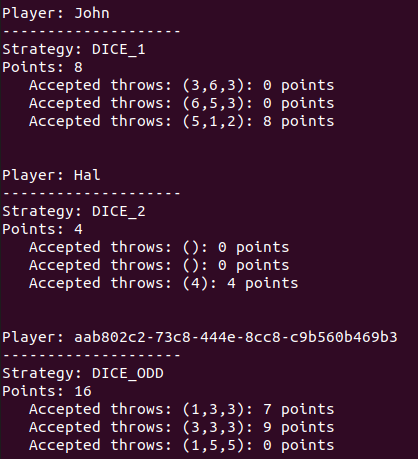
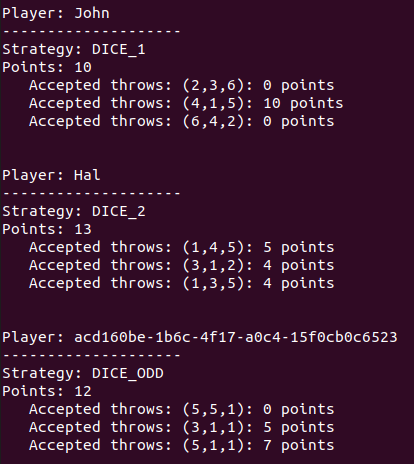
Fix logic for Dice2 strategy && some refactor to player logic

diff --git a/test/DiceRulesTest.php b/test/DiceRulesTest.php
@@ -13,6 +13,7 @@ use App\Game\GameResult;
 
 final class DiceRulesTest extends TestCase
 {
+    //Dice1 rules only allow 3 times dice throw
     public function testDice1Rules3TimesMax(): void
     {
         $roundResult = $this->buildPlayResultFor(new Dice1Rules());
@@ -21,31 +22,58 @@ final class DiceRulesTest extends TestCase
         $this->assertEquals(3, $roundResult->getThrowsCount());
     }
 
+    //This test checks a series of [3,3,3]
     public function testDice1RulesGetPoints(): void
     {
         $roundResult = $this->buildPlayResultFor(new Dice1Rules([3]));
+        $this->assertEquals(3, $roundResult->getThrowsCount());
         $this->assertEquals(9, $roundResult->getPoints());
     }
 
+    //This test checks a series of [6,6,6]
     public function testDice1RulesGetZeroPoints(): void
     {
         $roundResult = $this->buildPlayResultFor(new Dice1Rules([6]));
+        $this->assertEquals(3, $roundResult->getThrowsCount());
         $this->assertEquals(0, $roundResult->getPoints());
     }
 
-    public function testDice2RulesStopWhenTotalAbove5(): void
+    //when total round is above 5 the last throw is accepted and computed
+    //for logic related to calculate round point. Currently if
+    //total round > 10 ten points = 0. This test checks a series of [6]
+    public function testDice2RulesStopWhenTotalRoundAbove5(): void
     {
         $roundResult = $this->buildPlayResultFor(new Dice2Rules([6]));
         $this->assertInstanceOf(GameResult::class, $roundResult);
-        $this->assertEquals(0, $roundResult->getThrowsCount());
-        $this->assertEquals(0, $roundResult->getPoints());
+        $this->assertEquals(1, $roundResult->getThrowsCount());
+        $this->assertEquals(6, $roundResult->getPoints());
     }
 
-    public function testDice2RulesStopWhenTotalUnder6(): void
+    //the rules will execute this throws (5,5,5) that should result in zero points
+    //due the value is above 10
+    //This test checks a series of [5,5]
+    public function testDice2RulesWhenFixedValue(): void
     {
         $roundResult = $this->buildPlayResultFor(new Dice2Rules([5]));
-        $this->assertEquals(1, $roundResult->getThrowsCount());
-        $this->assertEquals(5, $roundResult->getPoints());
+        $this->assertEquals(2, $roundResult->getThrowsCount());
+        $this->assertEquals(10, $roundResult->getPoints());
+    }
+
+    //when the only value available is 1, there must be 6 throws and 6 points
+    //This test checks a series of [1,1,1,1,1,1]
+    public function testDice2RulesCheckPointsValue(): void
+    {
+        $roundResult = $this->buildPlayResultFor(new Dice2Rules([1]));
+        $this->assertEquals(6, $roundResult->getThrowsCount());
+        $this->assertEquals(6, $roundResult->getPoints());
+    }
+
+    //This test checks a series of [4,4]
+    public function testDice2RulesGetZeroPoints(): void
+    {
+        $roundResult = $this->buildPlayResultFor(new Dice2Rules([4]));
+        $this->assertEquals(2, $roundResult->getThrowsCount());
+        $this->assertEquals(8, $roundResult->getPoints());
     }
 
     public function testUnExistentRuleException()

diff --git a/src/Dice/Rules/AbstractBaseRules.php b/src/Dice/Rules/AbstractBaseRules.php
@@ -11,6 +11,7 @@ abstract class AbstractBaseRules implements DiceRulesInterface, DiceInterface
     protected int $throwsCounter = 0;
     protected ?int $roundPoints = 0;
     protected ?int $points = 0;
+    private array $throws = [];
 
     public function __construct(array $allowedValues = null)
     {
@@ -26,18 +27,15 @@ abstract class AbstractBaseRules implements DiceRulesInterface, DiceInterface
     {
         $this->throwsCounter++;
         $value = $value ?? $this->doRoll();
+        $this->addThrow($value);
         $this->roundPoints = $this->roundPoints + $value;
 
         return $value;
     }
 
-    protected function doRoll(): int
-    {
-        return $this->allowedValues[array_rand($this->allowedValues)];
-    }
-
     public function reset(): void
     {
+        $this->throws = [];
         $this->roundPoints = 0;
         $this->throwsCounter = 0;
     }
@@ -48,6 +46,26 @@ abstract class AbstractBaseRules implements DiceRulesInterface, DiceInterface
         $this->points = $points;
 
         return $this->points;
+    }
+
+    public function getThrows(): array
+    {
+        return $this->throws;
+    }
+
+    protected function getCurrentPoints(): int
+    {
+        return array_sum($this->getThrows());
+    }
+
+    protected function doRoll(): int
+    {
+        return $this->allowedValues[array_rand($this->allowedValues)];
+    }
+
+    protected function addThrow(int $points): void
+    {
+        $this->throws[] = $points;
     }
 
     private function calculateRoundPoints(): int

diff --git a/src/Player/PlayResult.php b/src/Player/PlayResult.php
@@ -6,27 +6,16 @@ namespace App\Player;
 
 final class PlayResult
 {
-    public int $points;
-    public int $totalPoints = 0;
-    public array $throws = [];
-
-    public function __construct(public readonly string $playerName, public readonly string $diceName)
-    {
-    }
-
-    public function addThrow(int $points): void
-    {
-        $this->throws[] = $points;
-        $this->totalPoints = $this->totalPoints + $points;
+    public function __construct(
+        public readonly string $playerName,
+        public readonly string $diceName,
+        public readonly array $throws,
+        public readonly int $points
+    ){
     }
 
     public function getRoundPoints(): int
     {
         return $this->points;
-    }
-
-    public function setPoints(int $points)
-    {
-        $this->points = $points;
     }
 }

diff --git a/src/Dice/Rules/Strategies/Dice2Rules.php b/src/Dice/Rules/Strategies/Dice2Rules.php
@@ -5,24 +5,21 @@ declare(strict_types=1);
 namespace App\Dice\Rules\Strategies;
 
 use App\Dice\Rules\AbstractBaseRules;
-use App\Player\PlayResult;
 
 final class Dice2Rules extends AbstractBaseRules
 {
     const STRATEGY_NAME = 'DICE_2';
 
-    private ?int $value = 0;
+    private int $value = 0;
 
-    public function canRoll(PlayResult $result): bool
+    public function canRoll(): bool
     {
-        $value = $this->doRoll();
+        $this->value = parent::roll();
+        $temporalPoints = $this->getCurrentPoints();
 
-        if (($result->totalPoints + $value) > 5) {
+        if ($temporalPoints > 5) {
             return false;
         }
-
-        $this->value = $value;
-        parent::roll($value);
 
         return true;
     }

diff --git a/src/Player/Player.php b/src/Player/Player.php
@@ -42,17 +42,11 @@ final class Player
     public function playRound(): PlayResult
     {
         $this->dice->reset();
-        $playResult = new PlayResult($this->name, $this->dice->getName());
 
-        while ($this->dice->canRoll($playResult)) {
-            $points = $this->dice->roll();
-            $playResult->addThrow($points);
+        while ($this->dice->canRoll()) {
+            $this->dice->roll();
         }
 
-        $playResult->setPoints(
-            $this->dice->getRoundPoints()
-        );;
-
-        return $playResult;
+        return new PlayResult($this->name, $this->dice->getName(), $this->dice->getThrows(), $this->dice->getRoundPoints());
     }
 }

diff --git a/src/Game/DiceGame.php b/src/Game/DiceGame.php
@@ -4,6 +4,8 @@ declare(strict_types=1);
 
 namespace App\Game;
 
+use App\Player\Player;
+
 final class DiceGame
 {
     private array $results = [];
@@ -33,7 +35,7 @@ final class DiceGame
         return $this->results;
     }
 
-    private function playRounds(mixed $rounds, mixed $player, GameResult $gameResult): void
+    private function playRounds(int $rounds, Player $player, GameResult $gameResult): void
     {
         for ($i = 0; $i < $rounds; $i++) {
             $roundResult = $player->playRound();

diff --git a/src/Dice/Rules/Strategies/OddDiceRules.php b/src/Dice/Rules/Strategies/OddDiceRules.php
@@ -5,7 +5,6 @@ declare(strict_types=1);
 namespace App\Dice\Rules\Strategies;
 
 use App\Dice\Rules\AbstractBaseRules;
-use App\Player\PlayResult;
 
 final class OddDiceRules extends AbstractBaseRules
 {
@@ -17,7 +16,7 @@ final class OddDiceRules extends AbstractBaseRules
         parent::__construct([1,3,5]);
     }
 
-    public function canRoll(PlayResult $result): bool
+    public function canRoll(): bool
     {
         return ($this->throwsCounter < self::CONSTRAINT_MAX_THROWS);
     }

diff --git a/src/Dice/Rules/Strategies/Dice1Rules.php b/src/Dice/Rules/Strategies/Dice1Rules.php
@@ -5,14 +5,13 @@ declare(strict_types=1);
 namespace App\Dice\Rules\Strategies;
 
 use App\Dice\Rules\AbstractBaseRules;
-use App\Player\PlayResult;
 
 class Dice1Rules extends AbstractBaseRules
 {
     const STRATEGY_NAME = 'DICE_1';
     const CONSTRAINT_MAX_THROWS = 3;
 
-    public function canRoll(PlayResult $result): bool
+    public function canRoll(): bool
     {
         return ($this->throwsCounter < self::CONSTRAINT_MAX_THROWS);
     }

diff --git a/src/Interfaces/DiceRulesInterface.php b/src/Interfaces/DiceRulesInterface.php
@@ -2,12 +2,10 @@
 
 namespace App\Interfaces;
 
-use App\Player\PlayResult;
-
 interface DiceRulesInterface
 {
     public function roll(int $value = null): int;
-    public function canRoll(PlayResult $result): bool;
+    public function canRoll(): bool;
     public function getName(): string;
     public function reset(): void;
 }
